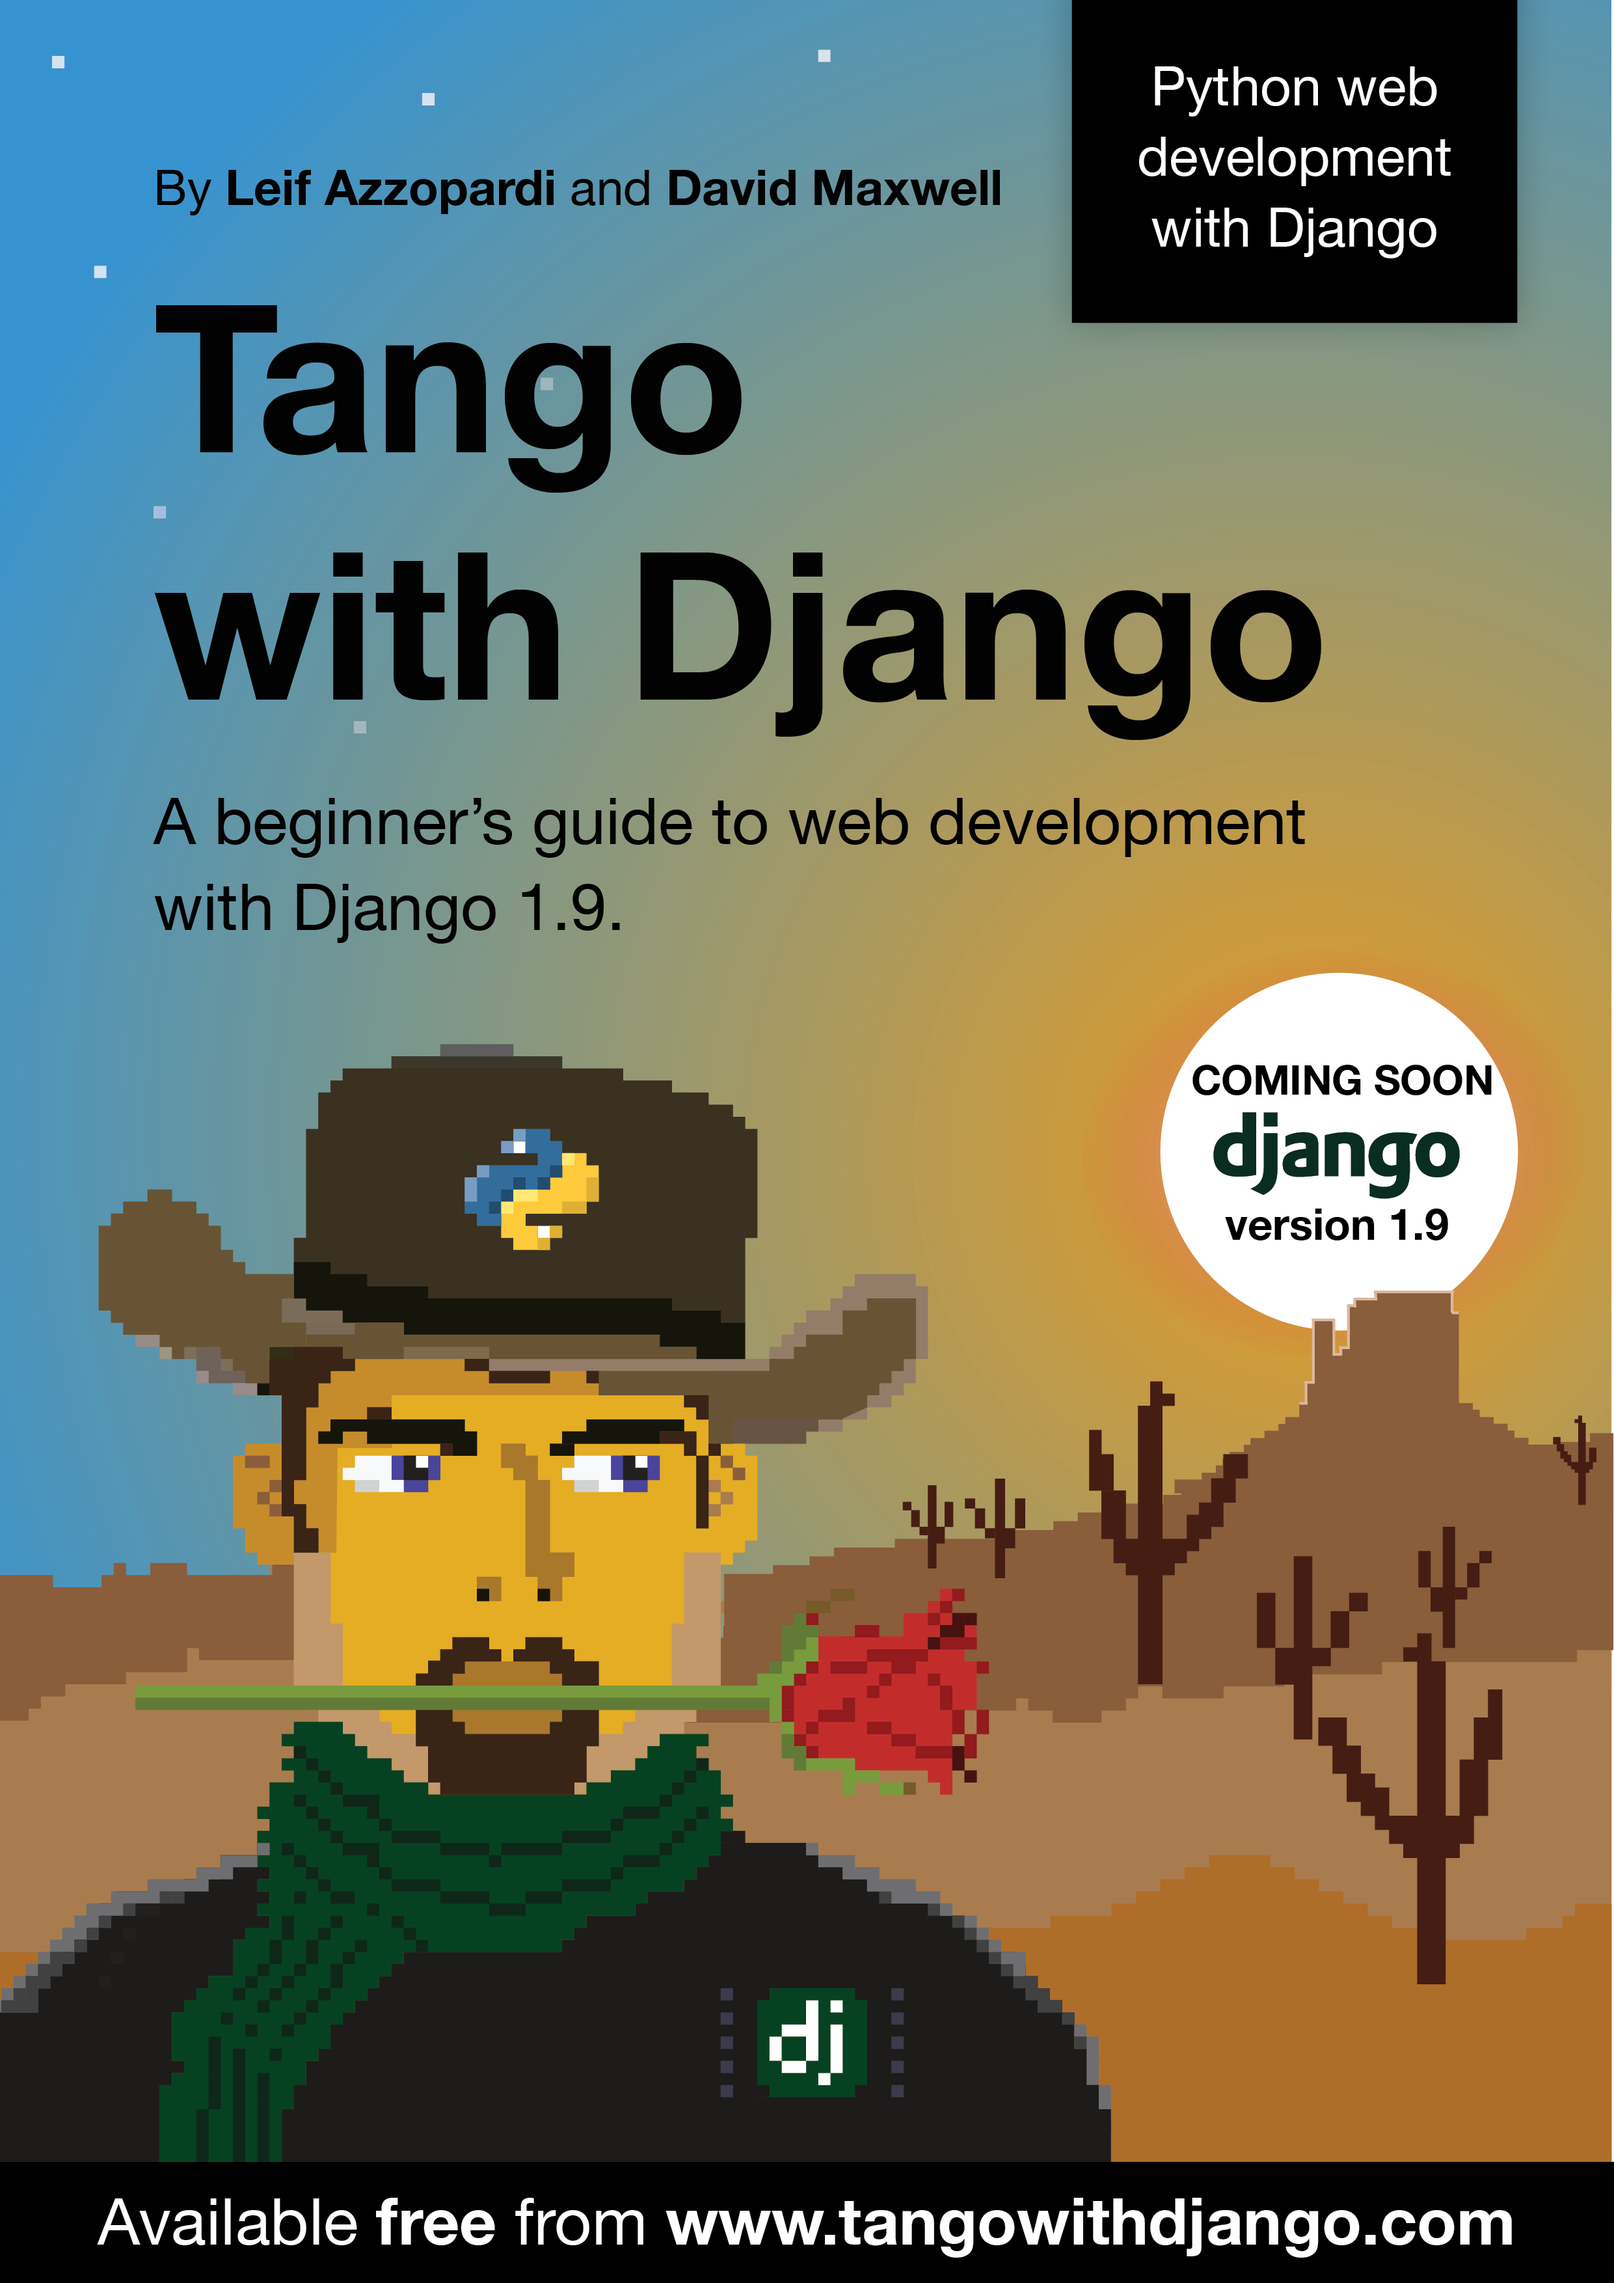
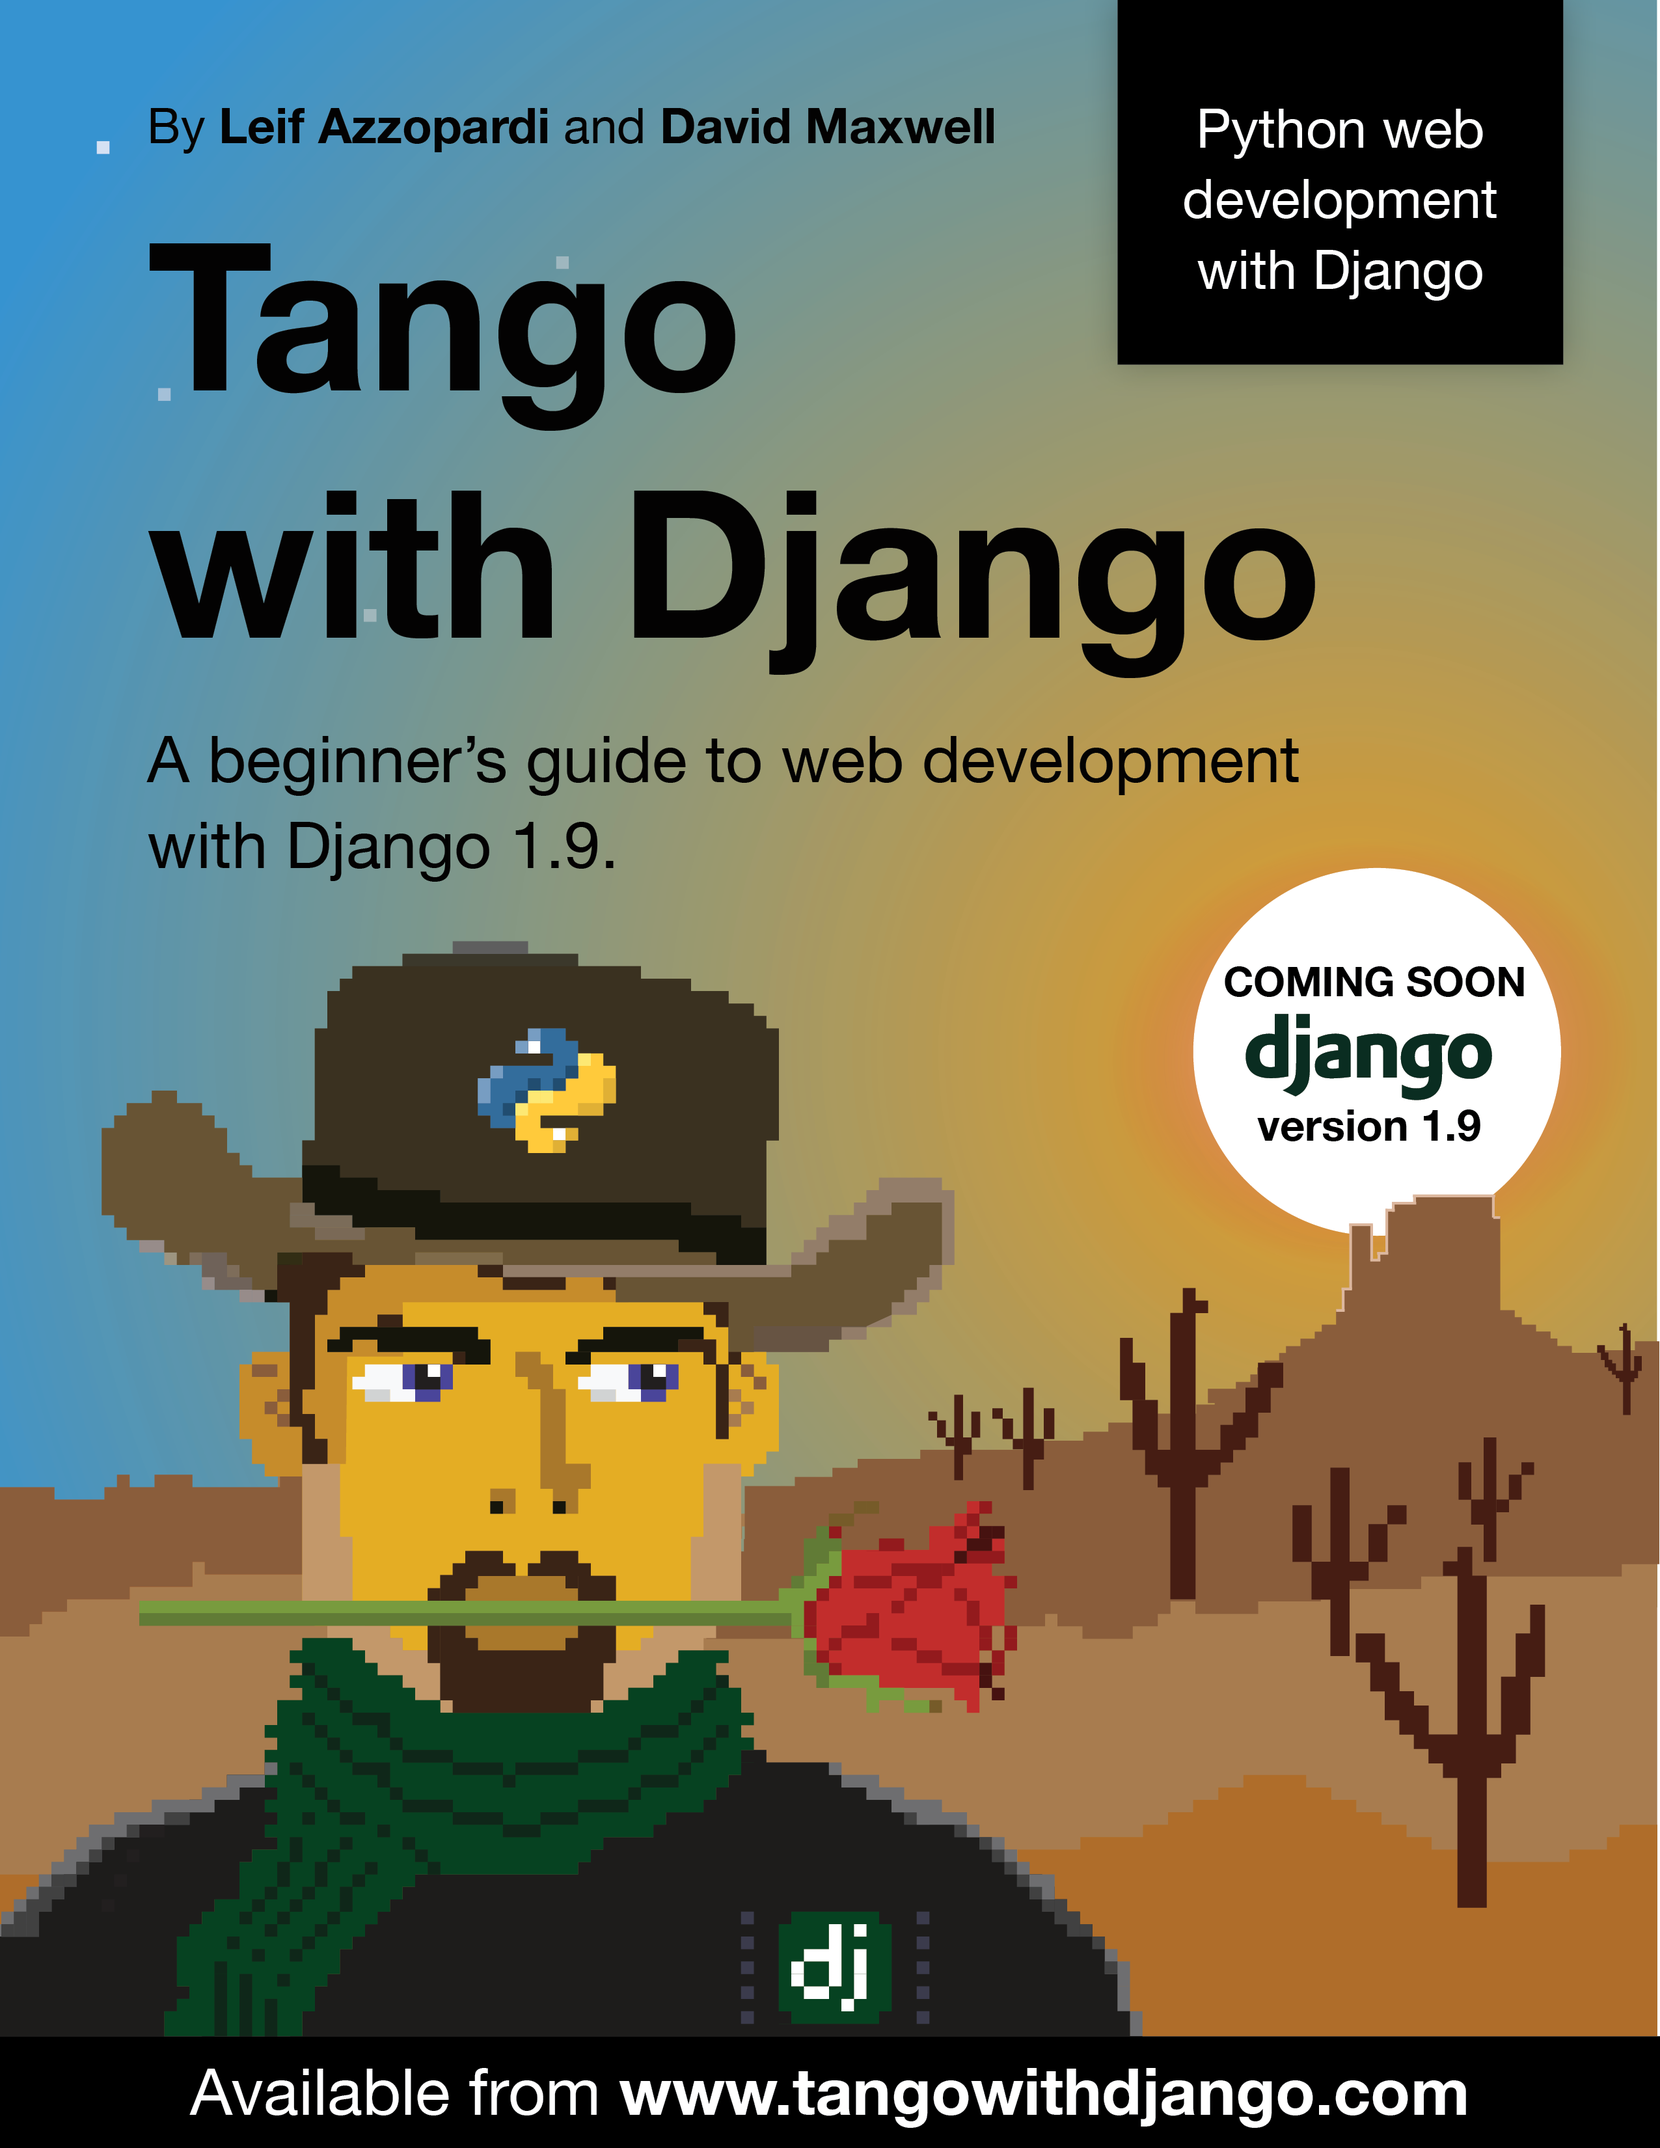
Updated book cover for aspect ratio

diff --git a/manuscript/chapter-system-setup.md b/manuscript/chapter-system-setup.md
@@ -1,3 +1,6 @@
+Setting up your System {#chapter-system-setup}
+==============================================
+
 Installing the Software
 -----------------------
 Now that you have a decent understanding of how to interact with the
